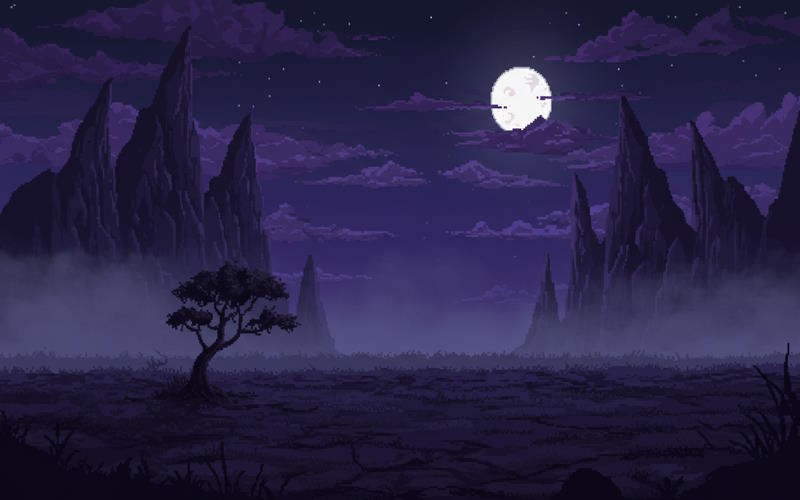
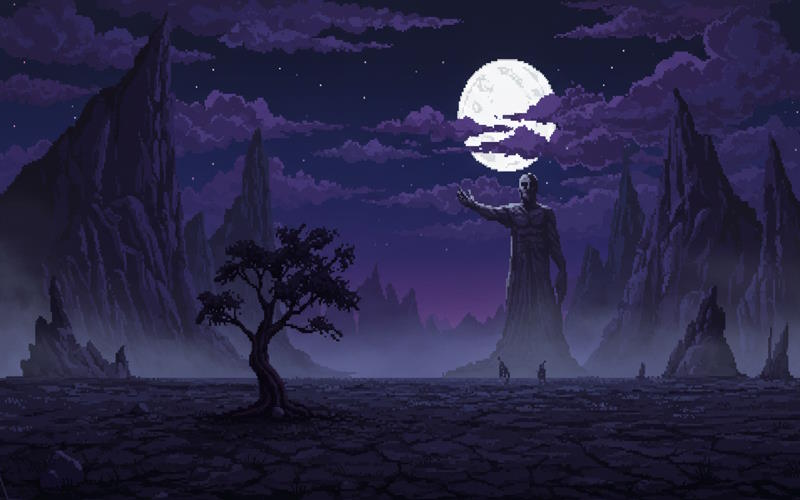
PlainesDesolees WIP

diff --git a/src/main/java/sombreheritage/monde/zones/PlainesDesolees.java b/src/main/java/sombreheritage/monde/zones/PlainesDesolees.java
@@ -11,7 +11,91 @@ public class PlainesDesolees extends Zone {
     }
 
     @Override
-    public void traiterCommande(String commande) {
+    public void entrer() {
+        etapeConversation = 0;
+        if (!dejaVisite()) {
+            getJeu().afficher("Des étendues de terre craquelée, grises et infertiles, s’étendent à l’horizon.");
+            getJeu().afficher("Au centre, une colossale statue représentant un Gardien courbé, ses mains tendues vers le ciel.");
+            getJeu().afficher("Le vent soulève des volutes de sable, et un sentiment d’inévitabilité vous envahit. Votre quête touche à son terme.");
+            getJeu().afficher("Vous êtes désormais bloqué ici, votre déstin ne dépend que des fragments que vous avez rassemblés.");
+            getJeu().afficher("");
+        }
+        getJeu().afficher("Vous êtes maintenant dans: " + getNom() + ".");
+        getJeu().afficher("Un cercle de pierres noires, partiellement enseveli sous la poussière, se dessine à vos pieds.");
+        getJeu().afficher("Une pulsation sourde en émane, comme si la terre elle-même vous reconnaissait.");
+        getJeu().afficher("Instinctivement, vous placez les fragments un à un dans les creux du cercle. Chacun réagit en libérant une faible lueur.");
 
+        getJeu().afficher("Soudain, la statue ouvre lentement un œil de pierre. Un frisson vous parcourt.");
+        getJeu().afficher("Un souffle invisible vous enveloppe, et votre esprit est projeté ailleurs...");
+
+        getJeu().afficher("Des souvenirs affluent : les visages que vous avez croisés, les choix que vous avez faits.");
+        getJeu().afficher("Puis une voix résonne, puissante et ancienne :");
+        getJeu().afficher("     « Mortel. Tu es à la porte de ton dernier acte. Mais avant que je t'ouvre le passage... tu dois te juger toi-même. »");
+
+        getJeu().afficher("");
+        getJeu().afficher("Deux visions s’offrent à vous :");
+        getJeu().afficher("     1) Libération et unification : sacrifier les fragments pour rendre à la forêt son éclat, au prix de vos souvenirs.");
+        getJeu().afficher("     2) Ascension : conserver les fragments, mais abandonner la forêt à son sort, et devenir un Gardien éternel.");
+        getJeu().afficher("Taper 1 ou 2 pour choisir l'option ultime, le destin de la forêt et de votre âme : ");
+        getJeu().afficher("");
+        this.dejaVisite = true;
+    }
+
+    @Override
+    public void traiterCommande(String commande) {
+        switch (etapeConversation) {
+            case 0:
+                choixUltime(commande);
+                break;
+            case 1:
+                break;
+        }
+    }
+
+    private void choixUltime(String commande) {
+        switch (commande) {
+            case "1":
+                getJeu().afficher("Vous êtes entrain de sacrifier tous vos fragments pour libérer la forêt.");
+                if (getJeu().getFragments().size() >= 7) {
+                    if (!getJeu().possedeFragment(Fragment.SCIENCE_SORCELLERIE)) {
+                        finLiberation();
+                        break;
+                    } else {
+                        getJeu().afficher("Vous avez précédemment choisi de garder le Journal ésotérique, ce qui empêche la guérison complète de la forêt.");
+                        finBloque();
+                        break;
+                    }
+                }
+                getJeu().afficher("Malgré vos efforts, la forêt ne peut être complètement guérie, car vous n'avez pas trouvé tous les fragments de mémoire.");
+                finUnification();
+                break;
+            case "2":
+                getJeu().afficher("Vous décidez de garder les fragments de mémoire et essayez de devenir un Gardien éternel.");
+                if(getJeu().getFragments().size() >= 8) {
+                    finAscension();
+                    break;
+                }
+                getJeu().afficher("Pour devenir un Gardien éternel, vous devez rassembler tous les fragments de mémoire.");
+                getJeu().afficher("Vous n'avez pas trouvé tous les fragments de mémoire, vous ne pouvez pas devenir un Gardien éternel.");
+                getJeu().afficher("Votre soif de pouvoir vous a aveuglé, et vous avez perdu la chance de sauver la forêt.");
+                finBloque();
+                break;
+        }
+        etapeConversation = 1;
+    }
+
+    private void finBloque() {
+
+    }
+
+    private void finLiberation() {
+
+    }
+
+    private void finUnification() {
+
+    }
+
+    private void finAscension() {
     }
 }
